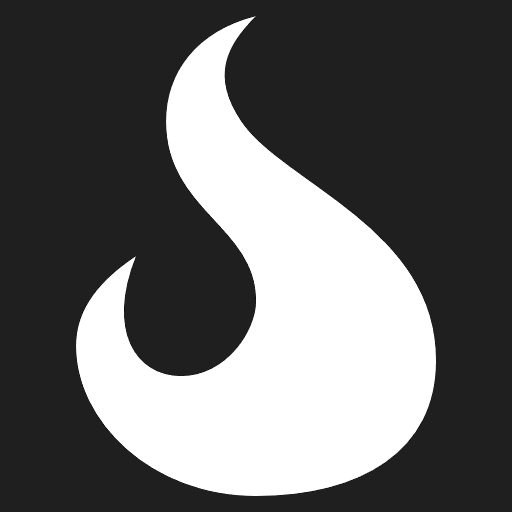
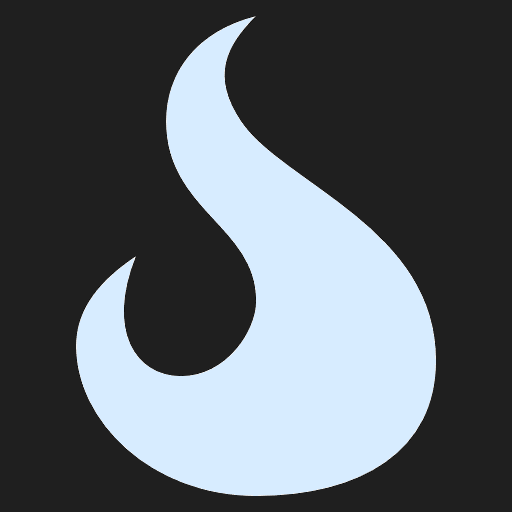
alto avance capo

diff --git a/index.html b/index.html
@@ -5,7 +5,7 @@
     <meta name="viewport" content="width=device-width, initial-scale=1.0">
     <link rel="stylesheet" href="./CSS/index.css">
     <script src="https://code.jquery.com/jquery-3.6.1.js" integrity="sha256-3zlB5s2uwoUzrXK3BT7AX3FyvojsraNFxCc2vC/7pNI=" crossorigin="anonymous"></script>
-    <title>L i g h t   B r i n g e r</title>
+    <title>Portfolio Pistoia Adriano</title>
 </head>
 <body> 
     <div id="game">
@@ -17,31 +17,51 @@
                     <div class="icon wizard"></div>
                     <h1 id="title" class="boldenThis">Pistoia, Adriano</h1>
                 </div>
-                <ul id="subTitle">
+                <ul id="subTitle" >
                     <li><span class="boldenThis">Age:</span> 25 years old.</li>
                     <li><span class="boldenThis">E-Mail:</span> adripistoia@gmail.com</li>
                     <li><span class="boldenThis">linked-In:</span><a target="_blank" href="https://www.linkedin.com/in/adriano-pistoia/">   linkedin.com/adriano-pistoia</a></li>
                 </ul>
             </div> 
             <div class="Tuto">
-                <h2><span class="boldenThis">Movement:</span></h3>
+                <div class="iconContainer">
+                    <div class="icon Movement"></div><h2><span class="boldenThis">Movement:</span></h3>
+                </div>
                 <p> W, A, S, D </p>
                 <p> Left, Up, Right, Down</p>
             </div>
         </div>
         <div class="part1">
             <div class="Aptitudes">
-                <div>
-                    <h2>Aptitudes</h2>
-                    <h3 class="boldenThis"><span >Tutoring skills:</span></h3>
-                    <p> I´ve been <span class="boldenThis">teaching english language and basic programming and logic</span> since 2018.</p>
-                    <h3 class="boldenThis">Comunicator:</h3>
+                <div class="box">
+                    <div class="iconContainer h2">
+                        <div class="icon biceps"></div>
+                        <h2>Aptitudes</h2>
+                    </div>
+                    <div class="iconContainer h3">
+                        <div class="icon mini teacher"></div>
+                        <h3 class="boldenThis"><span >Tutoring skills:</span></h3>
+                    </div>
+                        <p> I´ve been <span class="boldenThis">teaching english language and basic programming and logic</span> since 2018.</p>
+                    <div class="iconContainer h3">
+                        <div class="icon mini Comunicator"></div>
+                        <h3 class="boldenThis">Comunicator:</h3>
+                    </div>
                     <p>As a member of a familly of 5 really talkative people, <span class="boldenThis">i learned a good talk can solve everything.</span></p>
-                    <h3 class="boldenThis">Fast-Learner:</span></h3>
+                    <div class="iconContainer h3">
+                        <div class="icon mini FastLearner"></div>
+                        <h3 class="boldenThis">Fast-Learner:</span></h3>
+                    </div>
                     <p>Since Elementary School i have been teaching myself <span class="boldenThis">english, japanese and other various topics</span> ranging from Science, Philosophy, History, Literature and forth.</p>
-                    <h3 class="boldenThis">Team-Player:</span></h3>
+                    <div class="iconContainer h3">
+                        <div class="icon mini Team"></div>
+                        <h3 class="boldenThis">Team-Player:</h3>
+                    </div>
                     <p>Growing up as calm and shy twin surrounded with action-driven energetic people, i was automaticly enrolled in any plan the came up with, thanks to this, <span class="boldenThis">i learned that anything is posible with a team</span>, and way more fun.</p>
-                    <h3 class="boldenThis">Creativity and Adaptability:</span></h3>
+                    <div class="iconContainer h3">
+                        <div class="icon mini Creativity"></div>
+                        <h3 class="boldenThis">Creativity and Adaptability:</h3>
+                    </div>
                     <p>In an effort to help my friends and comply with all my responsibilities, <span class="boldenThis">i developed an intuitive ability to juggle through timings and deadlines all while helping others.</span></p>    
                 </div>
             </div>
@@ -50,13 +70,14 @@
             <div class="blockRight font14">
                 <div>
                     <h2>Technologies!</h2>
-                    <h3 class="boldenThis">HTML, CSS, Javascript:</h3>
-                    <p>This page is a demonstration of my basic <span class="boldenThis">knowledge of Javascript and my will of making videogames</span> for every platform, even toasters! (coming soon...)</p>
-                    <h3 class="boldenThis">C/C++, C#, Java:</h3>
-                    <p>My first game was made with <span class="boldenThis">C++ using the SFML Framework</span> and for the past year and a half i've been making videogames with <span class="boldenThis">C# using Unity.</span></p>
-                    <p>Of course, videogames is just an excuse to learn all about programming, like <span class="boldenThis">Data Structure, UI/X, Animation, Optimization, Debugging</span></br>This made me a good all-rounder!</p>
-                    <h3 class="boldenThis special">But when i realized, it was too late... </h3>
-                    <h3 class="boldenThis special">i fell in love with videogame development...</h3>
+                    <h3 class="boldenThis thatColor">HTML, CSS, Javascript</h3>
+                    <h3 class="boldenThis thatColor">C/C++, C#, Java</h3>
+                    <h3 class="boldenThis thatColor">SQL, MySQL, PostgreSQL</h3>
+                    <!-- <p>This page is a demonstration of my basic <span class="boldenThis">knowledge of Javascript and my will of making videogames</span> for every platform, even toasters! (coming soon...)</p> -->
+                    <!-- <p>My first game was made with <span class="boldenThis">C++ using the SFML Framework</span> and for the past year and a half i've been making videogames with <span class="boldenThis">C# using Unity.</span></p> -->
+                    <!-- <p>Of course, videogames is just an excuse to learn all about programming, like <span class="boldenThis">Data Structure, UI/X, Animation, Optimization, Debugging</span></br>This made me a good all-rounder!</p> -->
+                    <!-- <h3 class="boldenThis special">But when i realized, it was too late... </h3> -->
+                    <!-- <h3 class="boldenThis special">i fell in love with videogame development...</h3> -->
                     <!-- <p>Plus, in august, 2021, i finished the "Videogame Development Course", from UTN (B.A.), where i learned how to design and develop videogames.</p> -->
                     <!-- <h2>Motivation!</h2>
                     <p><span class="boldenThis">  Growing up, i was a really curious kid</span> filled with questions, luckily for me, my father answered all of them with long physics explanations or his own experiences.</p>
@@ -65,10 +86,6 @@
                     <p> <span class="boldenThis"> And here i am</span>, completely in love with all these digital worlds we, developers, can create, and so, <span class="boldenThis">make other people feel like i felt when i was a kid</span>.</p> -->
                 </div>
             </div>
-        </div>
-        <div class="parte2">
-            <div class="P2bloqueIzqUp"></div>
-            <div class="P2bloqueIzqDown"></div>
         </div>
         <div id="checkPoint1"></div>
         <div id="screen1" ></div>

diff --git a/CSS/index.css b/CSS/index.css
@@ -1,11 +1,13 @@
 
 :root{
-    --main-color:       #2598e4;
-    --secondary-color:  #FFA300;
-    --terciary-color:   #803C00;
-    --contrast-color:   #1f1f1f;
-    --font-color:       #CCB51D;
+    --secondary-color:      #FFA300;
+    --contrast-color:       #1f1f1f;
+    --terciary-color:       #803C00;
+    --main-color:           #25d7e4;
+    --font-color:           #CCB51D;
 }
+
+
 
 *{
     padding:            0px;
@@ -20,8 +22,9 @@ p{
 }
 
 h1,h2,h3,p,a,li{
+    letter-spacing:     3px;
     font-family:        "dragon";
-    color:              white;
+    color:              rgb(215, 236, 255);
 }
 
 @font-face {
@@ -43,14 +46,23 @@ html{
 }
 
 .iconContainer{
-    padding-bottom:     5px;
+    justify-content:    flex-start;
+    padding-bottom:     2px;
     align-items:        center;
     display:            flex;
 }
 .icon{
+    background-repeat:  no-repeat;
     background-size:    contain;
     height:             50px;
     width:              50px;
+}
+.mini{
+    /* padding-right:  20px; */
+    position:       relative;
+    height:         30px;
+    width:          30px;
+    /* left:           -65px; */
 }
 .learning{
     background-image:   url("../icons/read.png");
@@ -87,7 +99,9 @@ html{
 }
 
 #player{
-    background-color: red;
+    background-repeat:  no-repeat;
+    background-image:   url("../icons/warrior.png");
+    background-position: 5px;
     border-radius:      50% 50%;
     position:           relative;
     z-index:            4000000;
@@ -143,7 +157,7 @@ html{
 
 .Header div>h1{
     padding-bottom:     10px;
-    letter-spacing:     2px;
+    /* letter-spacing:     2px; */
     padding-top:        10px;
     margin-left:        20px;
     align-self:         flex-start;
@@ -161,26 +175,50 @@ html{
     width:              300px;
 }
 
-.Tuto h2{
-    padding-left:       55px;
+.Tuto div>div+h2{
+    padding-left:       20px;
     position:           relative;
+}
+
+.teacher{
+    background-image:   url("../icons/teacher.png");
+}
+
+.Comunicator{
+    background-image:   url("../icons/public-speaker.png");
+}
+
+.FastLearner{
+    background-image:   url("../icons/read.png");
+}
+.Creativity{
+    background-image:   url("../icons/team-idea.png");
+}
+.Team{
+    background-image:   url("../icons/three-friends.png");
+}
+
+.Movement{
+    background-image:   url("../icons/keyboard.png");
+}
+
+.biceps{
+    background-image:   url("../icons/biceps.png");
 }
 
 .Tuto p{
     position:           relative;
-    left:               85px;
-    top:                15px;
+    left:               75px;
 }
 
 .Tuto p+p{
-    padding-top:        15px;
-    left:               25px;
+    padding-top:        10px;
+    left:               5px;
 }
 
 .Header div>div+ul{
     list-style-type:    none;
     text-decoration:    none;
-    letter-spacing:     1px;
     margin-right:       25px;
     margin-left:        25px;
 }
@@ -205,7 +243,7 @@ html{
     background-color: rgba(0,0,0,1);
     position:           absolute;
     display:            block;
-    height:             900px;
+    height:             1000px;
     width:              1200px;
     top:                200px;
 }
@@ -226,13 +264,13 @@ html{
     background-color:   var(--contrast-color);
     padding-bottom:     15px;
     margin-bottom:      35px;
-    padding-right:      40px;
+    padding-right:      45px;
     margin-right:       25px;
-    padding-left:       40px;
+    padding-left:       85px;
     padding-top:        10px;
     margin-left:        25px;
     margin-top:         20px;
-    text-align:         center;
+    /* text-align:         center; */
     border:             1px solid white;
 }
 
@@ -240,18 +278,19 @@ html{
     text-decoration-thickness:  2px;
     text-decoration:            underline;
     padding-bottom:             20px;
+    padding-left:               45px;
     padding-top:                20px;
     position:                   relative;
 }
 
 .blockRight h3{
+    padding-bottom:     10px;
     padding-top:        15px;
 }
 
+
 .special{
     padding-bottom:     5px;
-    letter-spacing:     1px;
-    word-spacing:       1pt;
     padding-top:        16px;
 
 }
@@ -269,7 +308,7 @@ html{
     height:             50px;
     width:              50px;
     left:               0px;
-    top:                850px;
+    top:                950px;
 }
 
 .puertaIzq{
@@ -278,7 +317,7 @@ html{
     height:             50px;
     width:              50px;
     left:               50px;
-    top:                850px;
+    top:                950px;
 }
 
 .Aptitudes{
@@ -287,11 +326,11 @@ html{
     min-width:          500px;
     max-width:          500px;
     position:           relative;
-    height:             880px;
+    height:             980px;
     left:               0px;
 }
 
-.Aptitudes div{
+.Aptitudes div.box{
     background-color:       var(--contrast-color);
     padding-bottom:         17px;
     margin-bottom:          5px;
@@ -300,15 +339,23 @@ html{
     margin-right:           25px;
     padding-top:            25px;
     margin-left:            25px;
-    text-align:             center;
     border:                 1px solid white;
 }
 
+.Aptitudes div.iconContainer.h2{
+    position:               relative;     
+    left:                   50px;
+}
+.Aptitudes div.iconContainer.h3>h3{
+    position:               relative;     
+    left:                   10px;
+}
 .Aptitudes h2{
     text-decoration-thickness:  2px;
     text-decoration:            underline;
     padding-bottom:             20px;
     position:                   relative;
+    left: 15px;
 }
 
 .Aptitudes h3{
@@ -345,3 +392,6 @@ p>span.boldenThis {
     left:               550px;
     top:                50px;
 }
+/* .thatColor{
+    color:              var(--secondary-color);
+} */

diff --git a/JS/main.js b/JS/main.js
@@ -22,6 +22,8 @@ var gridMap =[
                 false,false,false,false,false,false,false,false,false,false,false,true ,true ,true ,false,false,false,false,false,false,false,false,false,false,false,false,//|15|  374
                 false,false,false,false,false,false,false,false,false,false,false,true ,true ,true ,false,false,false,false,false,false,false,false,false,false,false,false,//|15|  374
                 false,false,false,false,false,false,false,false,false,false,false,true ,true ,true ,false,false,false,false,false,false,false,false,false,false,false,false,//|15|  374
+                false,false,false,false,false,false,false,false,false,false,false,true ,true ,true ,false,false,false,false,false,false,false,false,false,false,false,false,//|15|  374
+                false,false,false,false,false,false,false,false,false,false,false,true ,true ,true ,false,false,false,false,false,false,false,false,false,false,false,false,//|15|  374
                 false,false,false,false,false,false,false,false,false,false,false,false,true ,false,false,false,false,false,false,false,false,false,false,false,false,false,//|16|  399
                 false,true ,true ,true ,true ,true ,true ,true ,true ,true ,true ,true ,true ,true ,true ,true ,true ,true ,true ,false,false,false,false,false,false,false,//|17|  424
                 false,true ,true ,true ,true ,true ,true ,true ,true ,true ,true ,true ,true ,true ,true ,true ,true ,true ,true ,false,false,false,false,false,false,false,//|18|  449
